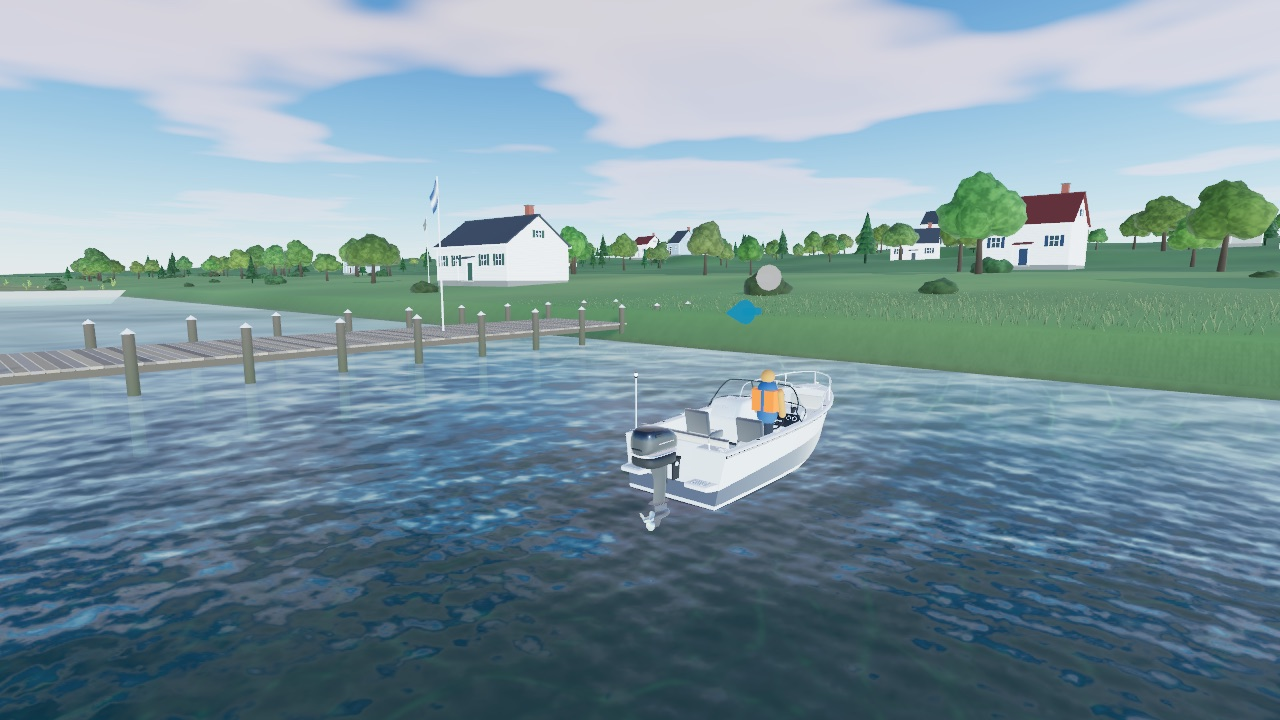
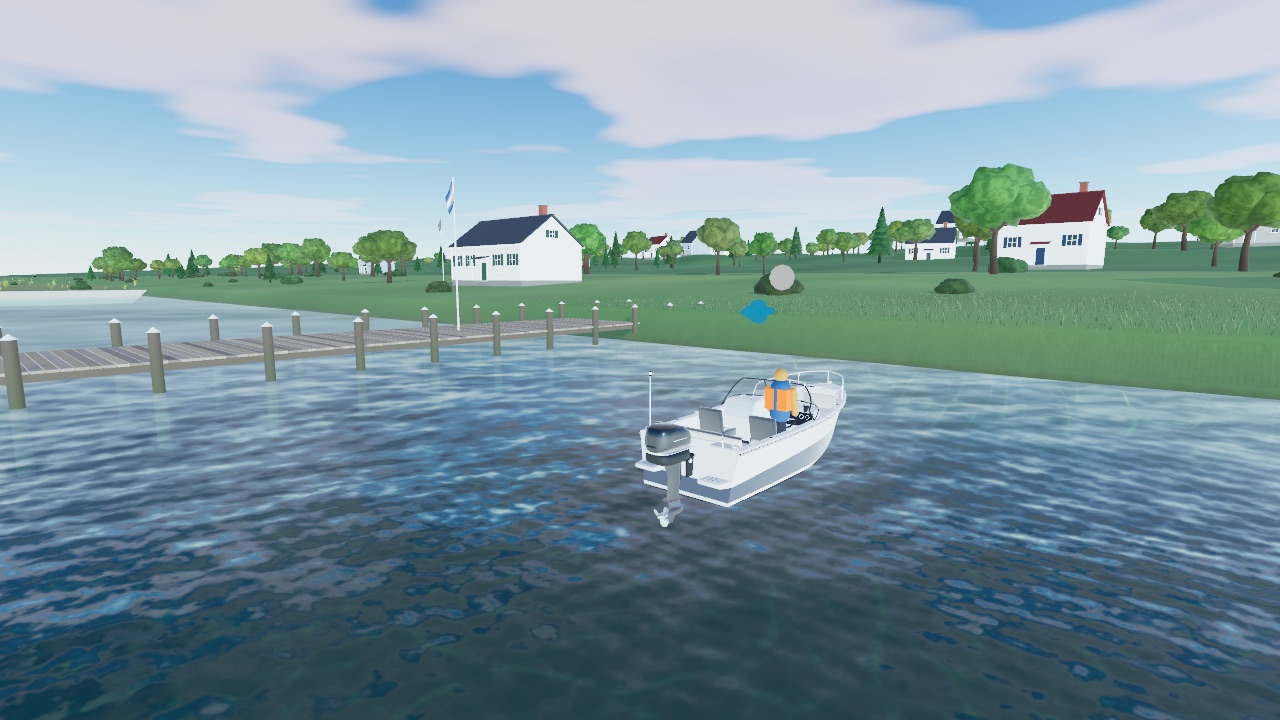
feat: branching trees, whorled pines, fuller shrubs and arching grass

diff --git a/src/render/vegetation.ts b/src/render/vegetation.ts
@@ -1,4 +1,4 @@
-import { BufferAttribute, BufferGeometry, ConeGeometry, CylinderGeometry, IcosahedronGeometry, Vector3, type MeshStandardMaterial } from 'three';
+import { BufferAttribute, BufferGeometry, CylinderGeometry, IcosahedronGeometry, Quaternion, Vector3, type MeshStandardMaterial } from 'three';
 import { mergeGeometries, mergeVertices } from 'three/examples/jsm/utils/BufferGeometryUtils.js';
 
 /**
@@ -89,78 +89,98 @@ const lobe = (r: number, x: number, y: number, z: number, seed: number, detail =
   return g;
 };
 
-/** Broadleaf canopy: seven overlapping lobes around a trunk top, about 7 m tall at scale 1. */
+/** Where the four main branches end; the canopy clusters sit on these, the trunk geometry reaches them. */
+const BRANCH_ENDS: [number, number, number][] = [
+  [1.55, 4.75, 0.45],
+  [-0.5, 5.05, 1.45],
+  [-1.5, 4.6, -0.6],
+  [0.45, 5.25, -1.35],
+];
+
+/** Broadleaf canopy: a large crown lobe plus clusters on the branch ends and around the top, ~7 m tall. */
 export const makeCanopyGeometry = (): BufferGeometry => {
-  const spec: [number, number, number, number][] = [
-    [0, 4.7, 0, 2.0],
-    [1.35, 4.15, 0.5, 1.45],
-    [-1.2, 4.2, -0.55, 1.55],
-    [0.4, 5.75, -0.45, 1.35],
-    [-0.55, 4.0, 1.25, 1.3],
-    [0.7, 3.75, -1.2, 1.25],
-    [-0.3, 5.3, 0.6, 1.2],
-  ];
-  const center = new Vector3(0, 4.6, 0);
-  const merged = mergeGeometries(spec.map(([x, y, z, r], i) => lobe(r, x, y, z, 11 + i * 31, i === 0 ? 2 : 1)), false);
-  bendNormals(merged, center, 0.65, 1.15);
+  const spec: [number, number, number, number, number][] = [[0.1, 5.2, 0, 1.85, 2]];
+  BRANCH_ENDS.forEach(([x, y, z], i) => spec.push([x * 1.12, y + 0.35, z * 1.12, 1.25 + 0.2 * hash(i + 3), 2]));
+  for (let k = 0; k < 4; k++) {
+    const a = k * 1.57 + 0.8;
+    spec.push([Math.cos(a) * 1.0, 6.2 + 0.3 * hash(k + 5), Math.sin(a) * 1.0, 1.0 + 0.2 * hash(k + 6), 1]);
+  }
+  spec.push([0.6, 4.15, -0.5, 1.1, 1], [-0.7, 4.35, 0.6, 1.05, 1]);
+  const center = new Vector3(0, 5.1, 0);
+  const merged = mergeGeometries(spec.map(([x, y, z, r, d], i) => lobe(r, x, y, z, 11 + i * 31, d)), false);
+  bendNormals(merged, center, 0.62, 1.15);
   return setColors(merged, (p, i) => {
-    const out = Math.min(p.clone().sub(center).length() / 2.6, 1.15);
-    return 0.42 + 0.42 * smooth(0.45, 1.05, out) + 0.22 * smooth(3.2, 6.6, p.y) + (hash(i) - 0.5) * 0.1;
+    const out = Math.min(p.clone().sub(center).length() / 2.7, 1.15);
+    return 0.4 + 0.44 * smooth(0.45, 1.05, out) + 0.22 * smooth(3.4, 6.8, p.y) + (hash(i) - 0.5) * 0.1;
   });
 };
 
 export const makeTrunkGeometry = (): BufferGeometry => {
-  const t = indexed(new CylinderGeometry(0.13, 0.27, 3.8, 9, 3));
-  t.translate(0, 1.9, 0);
-  const branches = [
-    [0.8, 0.5, 3.1, 0],
-    [-0.75, -0.4, 3.3, 2.1],
-    [0.6, 0.0, 3.6, 4.0],
-  ].map(([tilt, , y, yaw]) => {
-    const b = indexed(new CylinderGeometry(0.05, 0.1, 1.7, 6));
-    b.translate(0, 0.85, 0);
-    b.rotateZ(tilt!);
-    b.rotateY(yaw!);
-    b.translate(0, y!, 0);
-    return b;
-  });
-  const g = mergeGeometries([t, ...branches], false);
+  const t = indexed(new CylinderGeometry(0.15, 0.3, 3.6, 9, 4));
+  // A gentle bend so trunks are never perfectly straight.
+  const tp = t.getAttribute('position');
+  for (let i = 0; i < tp.count; i++) {
+    const y = tp.getY(i) + 1.8;
+    tp.setX(i, tp.getX(i) + 0.12 * Math.sin((y / 3.6) * Math.PI));
+  }
+  t.translate(0, 1.8, 0);
+  const parts = [t];
+  for (const [ex, ey, ez] of BRANCH_ENDS) {
+    const from = new Vector3(0.1, 3.0, 0);
+    const to = new Vector3(ex, ey, ez);
+    const len = from.distanceTo(to);
+    const b = indexed(new CylinderGeometry(0.05, 0.12, len, 6));
+    b.translate(0, len / 2, 0);
+    const dir = to.clone().sub(from).normalize();
+    b.applyQuaternion(new Quaternion().setFromUnitVectors(new Vector3(0, 1, 0), dir));
+    b.translate(from.x, from.y, from.z);
+    parts.push(b);
+  }
+  const g = mergeGeometries(parts, false);
   g.computeVertexNormals();
   return setColors(g, (p) => 0.55 + 0.45 * smooth(0, 3.5, p.y));
 };
 
-/** Pitch pine: seven tiers of drooping, jagged needle cones on a bare lower trunk. */
+/** Pitch pine: eight whorled tiers, each a drooping two-ring needle skirt with a jagged rim. */
 export const makePineGeometry = (): BufferGeometry => {
   const parts: BufferGeometry[] = [];
-  const trunk = indexed(new CylinderGeometry(0.09, 0.2, 3.4, 8));
-  trunk.translate(0, 1.7, 0);
+  const trunk = indexed(new CylinderGeometry(0.05, 0.22, 7.2, 8));
+  trunk.translate(0, 3.5, 0);
   trunk.computeVertexNormals();
   parts.push(setColors(trunk, (p) => 0.3 + 0.12 * smooth(0, 3, p.y)));
-  const tiers = 7;
+  const tiers = 8;
+  const spokes = 16;
   for (let t = 0; t < tiers; t++) {
     const f = t / (tiers - 1);
-    const y = 1.9 + f * 4.3;
-    const r = 1.85 * (1 - f * 0.78);
-    const h = 1.5 - f * 0.55;
-    const c = indexed(new ConeGeometry(r, h, 16, 3));
-    const pos = c.getAttribute('position');
-    const p = new Vector3();
-    for (let i = 0; i < pos.count; i++) {
-      p.fromBufferAttribute(pos, i);
-      const ring = Math.hypot(p.x, p.z) / r;
-      if (ring > 0.01) {
-        const a = Math.atan2(p.z, p.x);
-        // Jagged needle clumps around the rim and a drooping outer edge.
-        const jag = 0.8 + 0.2 * Math.cos(a * 8 + t * 1.7) + (noise3(Math.cos(a) * 3, t, Math.sin(a) * 3, 400) - 0.5) * 0.3;
-        p.x *= jag;
-        p.z *= jag;
-        p.y -= ring * ring * 0.35 * h;
+    const y = 1.8 + f * 5.2;
+    const r = 2.0 * (1 - f * 0.8);
+    const h = 1.2 - f * 0.45;
+    const pos: number[] = [0, y + h, 0];
+    for (const [ring, frac, droop] of [[0, 0.55, 0.25], [1, 1.0, 0.55]] as const) {
+      for (let j = 0; j < spokes; j++) {
+        const a = (j / spokes) * Math.PI * 2 + t * 0.4;
+        const jag = ring === 1 ? (j % 2 === 0 ? 1 : 0.84) : 1;
+        const rr = r * frac * jag * (0.92 + 0.16 * hash(j + t * 31 + ring * 7));
+        pos.push(Math.cos(a) * rr, y + h * (1 - frac) - droop * h * frac, Math.sin(a) * rr);
       }
-      pos.setXYZ(i, p.x, p.y + y + h / 2, p.z);
     }
-    c.computeVertexNormals();
-    bendNormals(c, new Vector3(0, y + h * 0.1, 0), 0.5, 1.8);
-    parts.push(setColors(c, (q, i) => {
+    pos.push(0, y + 0.1 * h, 0);
+    const idx: number[] = [];
+    const inner = 1;
+    const outer = 1 + spokes;
+    const bottom = 1 + 2 * spokes;
+    for (let j = 0; j < spokes; j++) {
+      const j2 = (j + 1) % spokes;
+      idx.push(0, inner + j2, inner + j);
+      idx.push(inner + j, inner + j2, outer + j2, inner + j, outer + j2, outer + j);
+      idx.push(bottom, outer + j, outer + j2);
+    }
+    const g = new BufferGeometry();
+    g.setAttribute('position', new BufferAttribute(new Float32Array(pos), 3));
+    g.setIndex(idx);
+    g.computeVertexNormals();
+    bendNormals(g, new Vector3(0, y + h * 0.1, 0), 0.5, 1.8);
+    parts.push(setColors(g, (q, i) => {
       const ring = Math.hypot(q.x, q.z) / r;
       return 0.38 + 0.45 * smooth(0.15, 1.0, ring) + 0.12 * f + (hash(i + t * 1000) - 0.5) * 0.12;
     }));
@@ -168,44 +188,68 @@ export const makePineGeometry = (): BufferGeometry => {
   return mergeGeometries(parts, false);
 };
 
-/** A clump of thin grass blades leaning outward (double-sided material). */
-export const makeGrassClumpGeometry = (blades = 9, height = 1.0): BufferGeometry => {
+/** A clump of tapered, arching grass blades in three segments (double-sided material). */
+export const makeGrassClumpGeometry = (blades = 12, height = 1.0): BufferGeometry => {
   const pos: number[] = [];
   const col: number[] = [];
+  const idx: number[] = [];
   for (let i = 0; i < blades; i++) {
     const a = (i / blades) * Math.PI * 2 + hash(i) * 0.6;
-    const lean = 0.15 + hash(i + 50) * 0.35;
-    const h = height * (0.6 + hash(i + 90) * 0.5);
-    const w = 0.035;
-    const bx = Math.cos(a) * 0.08;
-    const bz = Math.sin(a) * 0.08;
-    const tx = bx + Math.cos(a) * lean * h;
-    const tz = bz + Math.sin(a) * lean * h;
-    const px = -Math.sin(a) * w;
-    const pz = Math.cos(a) * w;
-    pos.push(bx - px, 0, bz - pz, bx + px, 0, bz + pz, tx, h, tz);
-    col.push(0.45, 0.45, 0.45, 0.45, 0.45, 0.45, 1.1, 1.1, 1.05);
+    const lean = 0.18 + hash(i + 50) * 0.4;
+    const h = height * (0.55 + hash(i + 90) * 0.55);
+    const w = 0.03 + hash(i + 120) * 0.015;
+    const dx = Math.cos(a);
+    const dz = Math.sin(a);
+    const px = -dz;
+    const pz = dx;
+    const base = pos.length / 3;
+    const segs = 3;
+    for (let k = 0; k <= segs; k++) {
+      const t = k / segs;
+      const out = 0.06 + lean * h * t * t;
+      const y = h * (t - 0.18 * lean * t * t);
+      const half = w * (1 - t * 0.85);
+      const cx = dx * out;
+      const cz = dz * out;
+      if (k < segs) {
+        pos.push(cx - px * half, y, cz - pz * half, cx + px * half, y, cz + pz * half);
+        const c = 0.42 + 0.68 * t;
+        col.push(c, c, c * 0.97, c, c, c * 0.97);
+      } else {
+        pos.push(cx, y, cz);
+        col.push(1.1, 1.1, 1.05);
+      }
+    }
+    for (let k = 0; k < segs - 1; k++) {
+      const v = base + k * 2;
+      idx.push(v, v + 1, v + 2, v + 1, v + 3, v + 2);
+    }
+    const last = base + (segs - 1) * 2;
+    idx.push(last, last + 1, last + 2);
   }
   const g = new BufferGeometry();
   g.setAttribute('position', new BufferAttribute(new Float32Array(pos), 3));
   g.setAttribute('color', new BufferAttribute(new Float32Array(col), 3));
+  g.setIndex(idx);
   g.computeVertexNormals();
-  return g;
+  return g.toNonIndexed();
 };
 
-/** A low shrub: four soft lobes. */
+/** A low shrub: six soft leaf clusters around a dense core. */
 export const makeShrubGeometry = (): BufferGeometry => {
   const spec: [number, number, number, number][] = [
-    [0, 0.5, 0, 0.9],
-    [0.62, 0.42, 0.3, 0.7],
-    [-0.5, 0.45, -0.32, 0.75],
-    [0.1, 0.4, -0.6, 0.6],
+    [0, 0.55, 0, 0.85],
+    [0.62, 0.42, 0.3, 0.62],
+    [-0.5, 0.45, -0.32, 0.66],
+    [0.1, 0.4, -0.62, 0.55],
+    [-0.35, 0.38, 0.55, 0.52],
+    [0.25, 0.85, 0.15, 0.5],
   ];
   const merged = mergeGeometries(spec.map(([x, y, z, r], i) => lobe(r, x, y, z, 200 + i * 17, 1)), false);
-  merged.scale(1, 0.72, 1);
+  merged.scale(1, 0.78, 1);
   merged.computeVertexNormals();
-  bendNormals(merged, new Vector3(0, 0.2, 0), 0.6, 1.4);
-  return setColors(merged, (p, i) => 0.45 + 0.55 * smooth(0, 0.9, p.y) + (hash(i) - 0.5) * 0.1);
+  bendNormals(merged, new Vector3(0, 0.25, 0), 0.6, 1.4);
+  return setColors(merged, (p, i) => 0.42 + 0.58 * smooth(0, 0.95, p.y) + (hash(i) - 0.5) * 0.12);
 };
 
 /** A fractured boulder: random cutting planes over a noisy sphere, like weathered granite. */

diff --git a/DEVELOPMENT_LOG.md b/DEVELOPMENT_LOG.md
@@ -936,3 +936,30 @@ The added triangles are mostly meadow blades within reach of the shore. Over ope
 - The wake is a shallow-water approximation. Its V angle follows the capped wave speed, not the 19.5° Kelvin angle, and at idle it spreads as rings.
 - Docks and bulkheads are not obstacles in the wake window.
 - Meadow blades reach about 56 m from the camera. Beyond that the meadow is the shaded terrain.
+
+## Nature detail pass: branching trees, whorled pines, shrubs and arching grass (2026-10-01, branch `feat/nature-detail`)
+
+**Change.** The user asked for the cove's nature to match the detail level of the revised Flareway aircraft. Only `src/render/vegetation.ts` changed: same exports, same instancing and placement in `props.ts`, and nothing in `src/sim`.
+
+- **Broadleaf.** The trunk bends gently and carries four branches. The canopy is a large crown cluster, one cluster on each branch end, four around the top and two low ones. The larger clusters use a finer subdivision. Normals stay bent away from the crown centre, and the world-space leaf noise is unchanged.
+- **Pitch pine.** A tapered trunk with eight whorled tiers, each a drooping two-ring needle skirt with a jagged rim.
+- **Shrubs.** Six soft leaf clusters around a dense core.
+- **Marsh and dune grass.** Clumps of twelve tapered blades in three segments that arch outward, shaded dark at the base and light at the tip.
+
+**Tests.** No behaviour changed, so no new tests.
+
+| Run | Result |
+|---|---|
+| `npm run lint` / `npm run typecheck` | clean |
+| `npm test` | 21 files, 157 tests passed |
+| `npm run build` | OK |
+| `npm run e2e` | 52 passed (Chrome + WebKit) |
+
+**Performance** (headless Chrome, Apple M5, 1280×720):
+
+| Pose | fps | p95 | triangles |
+|---|---|---|---|
+| Underway on the west shore | 114 | 10.4 ms | 3.30 M |
+| Marina | 120 | 9.6 ms | 3.61 M |
+
+Frame rate is unchanged from the previous pass. `docs/screenshots/north-shore.jpg` was refreshed.
